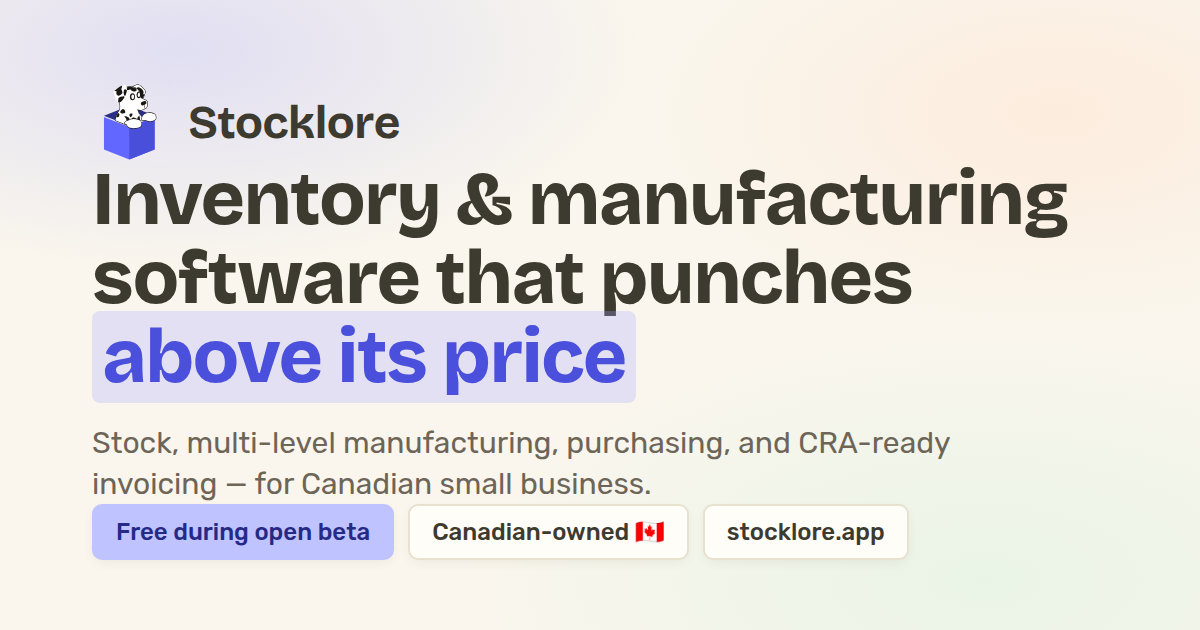
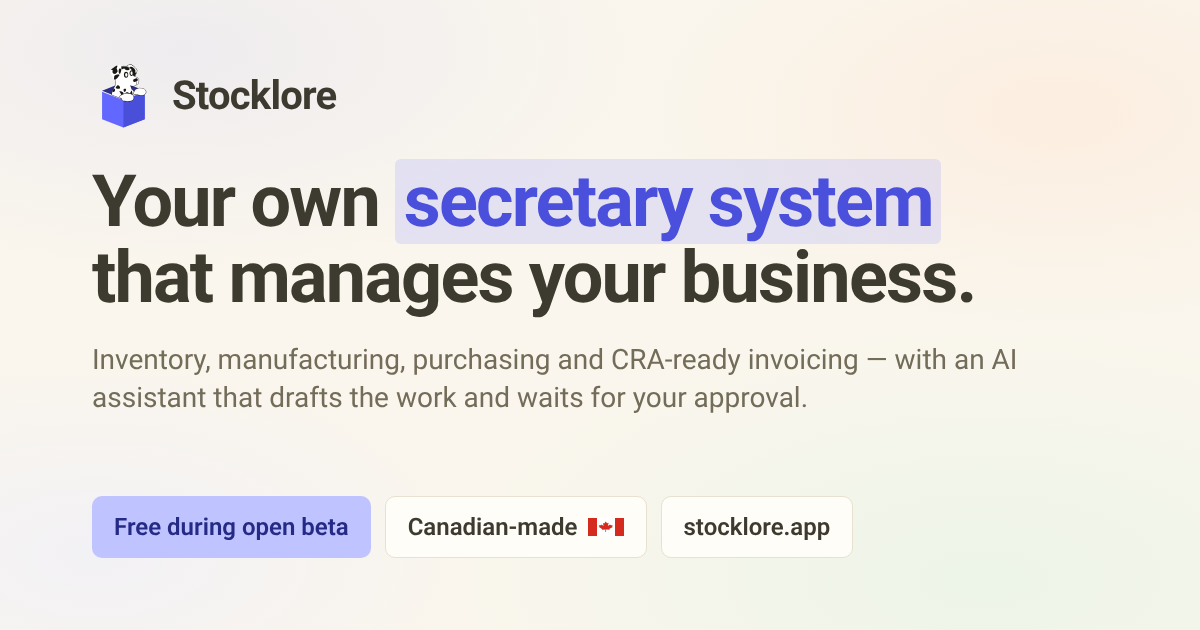
Render the social card from the built site (npm run og:image)
public/og.png still showed the July headline ("…software that punches
above its price") in the old typefaces. scripts/og-image.mjs now renders it
from a served build: the headline is the hero's own <h1>, highlight included,
and the type, colours and mark come from the site's stylesheet and
/favicon.svg, so the card can't drift from the page. Only the sub-line and
chips live in the script, and it refuses to write a card whose text
overflows.

Claude-Session: https://claude.ai/code/session_01EqRg69FYTxoUpbJZNA7Qz2

diff --git a/README.md b/README.md
@@ -21,13 +21,14 @@ Pastel fills always pair with WCAG-AA-verified ink tokens (see `src/styles/globa
 
 ## Commands
 
-| Command                | Action                                                                                    |
-| ---------------------- | ----------------------------------------------------------------------------------------- |
-| `npm install`          | Install dependencies                                                                      |
-| `npm run dev`          | Dev server at `localhost:4321`                                                            |
-| `npm run build`        | Production build to `dist/`                                                               |
-| `npm run check:site`   | **The merge gate** — device-matrix overflow + axe-core a11y checks against a served build |
-| `npm run format:write` | Prettier                                                                                  |
+| Command                | Action                                                                                       |
+| ---------------------- | -------------------------------------------------------------------------------------------- |
+| `npm install`          | Install dependencies                                                                         |
+| `npm run dev`          | Dev server at `localhost:4321`                                                               |
+| `npm run build`        | Production build to `dist/`                                                                  |
+| `npm run check:site`   | **The merge gate** — device-matrix overflow + axe-core a11y checks against a served build    |
+| `npm run og:image`     | Re-render the social card `public/og.png` from a served build (headline = the hero's `<h1>`) |
+| `npm run format:write` | Prettier                                                                                     |
 
 ### Running the validation gate
 
